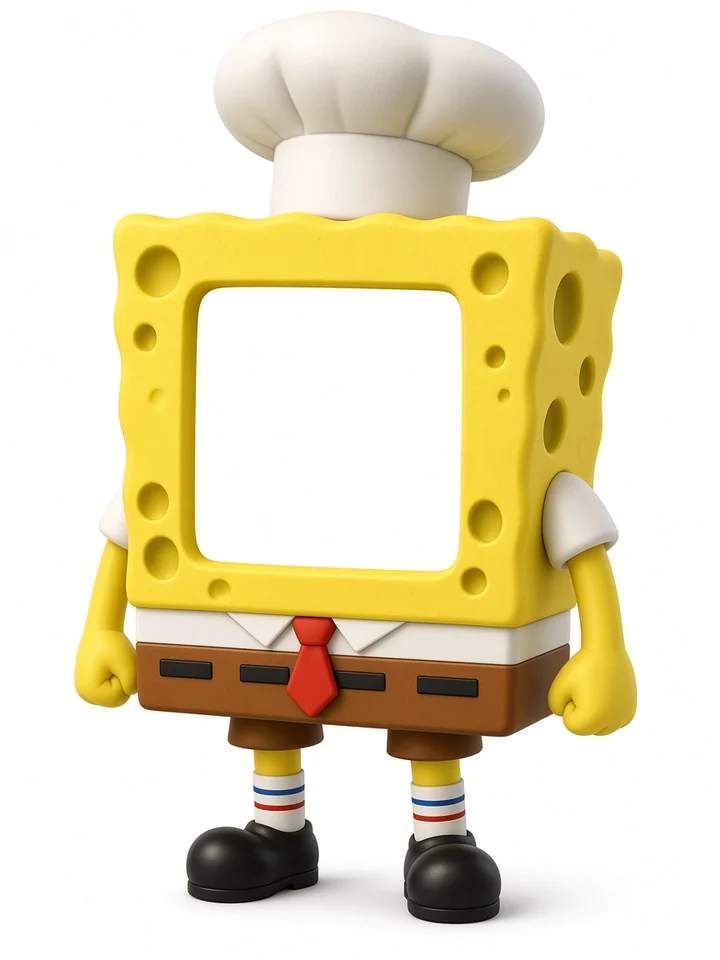
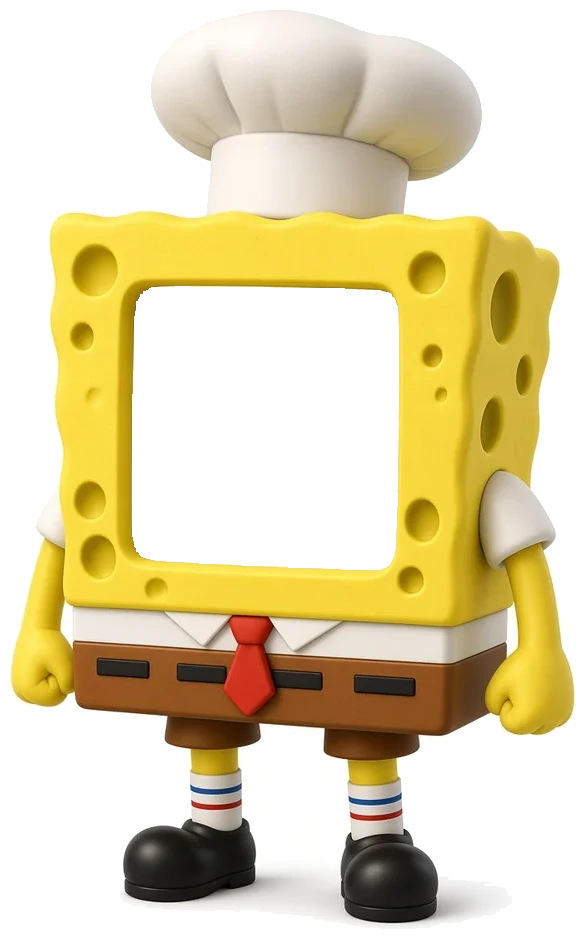
Cut transparent visors for the new shop outfits.
Punch white backgrounds and face holes, add matching masks, give
new players 20 shells so they can try a suit immediately.

diff --git a/components/shop-view.tsx b/components/shop-view.tsx
@@ -22,12 +22,14 @@ export function ShopView({
     <div className="screen">
       <TopBar title="服装" right={<span className="text-sm text-foam">贝壳 {user.shells}</span>} onBack={onBack} />
       <div className="relative z-10 flex-1 space-y-3 overflow-y-auto px-4 pb-8 pt-2">
+        <p className="px-1 text-xs text-foam/45">新号送 20 贝壳。打完一局还能再拿，头像会嵌在开口里。</p>
         {OUTFITS.map((outfit) => {
           const owned = outfit.price === 0 || user.owned.includes(outfit.id);
           const wearing = user.outfit === outfit.id;
+          const short = Math.max(0, outfit.price - user.shells);
           return (
             <div key={outfit.id} className="flex items-center gap-3 rounded-3xl bg-black/20 px-3 py-2.5">
-              <div className="flex h-[148px] w-[112px] shrink-0 items-end justify-center overflow-hidden rounded-2xl bg-white/95">
+              <div className="flex h-[148px] w-[112px] shrink-0 items-end justify-center overflow-hidden rounded-2xl bg-[#d7ece8]">
                 <Figure name={user.name} src={user.avatarUrl} outfitId={outfit.id} size={148} />
               </div>
               <div className="min-w-0 flex-1">
@@ -40,6 +42,8 @@ export function ShopView({
                 <button type="button" onClick={() => onWear(outfit.id)} className="btn btn-quiet px-4 py-2 text-sm">
                   穿上
                 </button>
+              ) : short ? (
+                <span className="text-sm text-foam/40">还差 {short}</span>
               ) : (
                 <button type="button" onClick={() => onBuy(outfit.id)} className="btn btn-primary px-4 py-2 text-sm">
                   兑换

diff --git a/lib/wardrobe.ts b/lib/wardrobe.ts
@@ -56,40 +56,45 @@ export const OUTFITS: Outfit[] = [
     name: "骑士",
     price: 18,
     src: withBase("/outfits/3.webp"),
-    aspect: 720 / 960,
-    hole: { cx: 50, cy: 12, rw: 7, rh: 8 },
+    mask: withBase("/outfits/3-mask.webp"),
+    aspect: 417 / 946,
+    hole: { cx: 50, cy: 13.32, rw: 11.39, rh: 4.12 },
   },
   {
     id: "mecha",
     name: "机甲",
     price: 20,
     src: withBase("/outfits/5.webp"),
-    aspect: 720 / 960,
-    hole: { cx: 50, cy: 14, rw: 10, rh: 11 },
+    mask: withBase("/outfits/5-mask.webp"),
+    aspect: 516 / 953,
+    hole: { cx: 49.9, cy: 11.8, rw: 13.28, rh: 6.87 },
   },
   {
     id: "bee",
     name: "蜜蜂",
     price: 14,
     src: withBase("/outfits/6.webp"),
-    aspect: 720 / 960,
-    hole: { cx: 50, cy: 24, rw: 16, rh: 14 },
+    mask: withBase("/outfits/6-mask.webp"),
+    aspect: 663 / 955,
+    hole: { cx: 38.91, cy: 28.53, rw: 18.7, rh: 11.47 },
   },
   {
     id: "starfish",
     name: "粉海星",
     price: 16,
     src: withBase("/outfits/7.webp"),
-    aspect: 720 / 960,
-    hole: { cx: 50, cy: 32, rw: 10, rh: 12 },
+    mask: withBase("/outfits/7-mask.webp"),
+    aspect: 701 / 911,
+    hole: { cx: 47.15, cy: 30.68, rw: 12.05, rh: 11.91 },
   },
   {
     id: "sponge",
     name: "海绵厨师",
     price: 16,
     src: withBase("/outfits/8.webp"),
-    aspect: 720 / 960,
-    hole: { cx: 50, cy: 34, rw: 16, rh: 16 },
+    mask: withBase("/outfits/8-mask.webp"),
+    aspect: 585 / 939,
+    hole: { cx: 45.3, cy: 45.53, rw: 22.74, rh: 15.07 },
   },
 ];
 

diff --git a/lib/local-user.test.ts b/lib/local-user.test.ts
@@ -92,18 +92,19 @@ describe("local user", () => {
   it("keeps nickname, shells, clothes, and history on this browser", async () => {
     const user = await registerLocal("甲甲", "pass");
     assert.equal(user.outfit, "astronaut");
+    assert.equal(user.shells, 20);
     assert.equal(loadCurrentUser()?.id, user.id);
     const paid = syncFinishedGame(finishedRoom(user.id));
-    assert.equal(paid?.shells, 22);
+    assert.equal(paid?.shells, 42);
     assert.equal(listLocalHistory().length, 1);
-    assert.equal(syncFinishedGame(finishedRoom(user.id))?.shells, 22);
+    assert.equal(syncFinishedGame(finishedRoom(user.id))?.shells, 42);
     const bought = buyOutfitLocal("diver");
     assert.equal(bought.outfit, "diver");
-    assert.equal(bought.shells, 6);
+    assert.equal(bought.shells, 26);
     logoutLocal();
     assert.equal(loadCurrentUser(), null);
     const again = await loginLocal("甲甲", "pass");
-    assert.equal(again.shells, 6);
+    assert.equal(again.shells, 26);
     assert.equal(again.outfit, "diver");
   });
 });

diff --git a/components/rules-view.tsx b/components/rules-view.tsx
@@ -7,7 +7,7 @@ const RULES = [
   ["轮数", "创建房间时选 20、50 或 100 轮，也可以提前结束。"],
   ["计分", "正经成语 +1 文化。四个字但不是成语、接错、重复、空发、跳过 +1 丈育；看提示 +2 丈育。"],
   ["贝壳", "打完一局发：底 6 + 文化×3。最有文化和最丈育分开评，再分别加 10 和 4。一局最多 50。"],
-  ["服装", "默认宇航服。巴斯光年、松鼠、骑士、机甲、蜜蜂、粉海星、海绵厨师用贝壳换，头像嵌在开口里。"],
+  ["服装", "默认宇航服。新号送 20 贝壳。别的衣服用贝壳换，头像嵌在开口里。"],
   ["结算", "文化最高是最有文化。丈育最高是最丈育，且不能跟最有文化是同一个人。"],
 ];
 

diff --git a/lib/wardrobe.test.ts b/lib/wardrobe.test.ts
@@ -58,10 +58,10 @@ describe("outfits", () => {
   });
 
   it("clips each face to that outfit's helmet opening", () => {
-    for (const id of ["astronaut", "ranger", "diver"] as const) {
+    for (const id of ["astronaut", "ranger", "diver", "knight", "mecha", "bee", "starfish", "sponge"] as const) {
       const outfit = getOutfit(id);
       assert.ok(outfit.mask, `${id} needs a visor mask`);
-      assert.match(outfit.mask ?? "", new RegExp(`${id}-mask\\.webp$`));
+      assert.match(outfit.mask ?? "", /mask\.webp$/);
       assert.ok(outfit.hole);
     }
     assert.equal(getOutfit("copper").id, "astronaut");

diff --git a/components/figure.tsx b/components/figure.tsx
@@ -1,3 +1,4 @@
+import { colorFor } from "./avatar";
 import { getOutfit } from "@/lib/wardrobe";
 
 function Face({
@@ -28,8 +29,8 @@ function Face({
   }
   return (
     <span
-      className="absolute flex items-center justify-center text-[11px] font-semibold text-[#f4f7f2]"
-      style={style}
+      className="absolute flex items-center justify-center font-semibold text-ink"
+      style={{ ...style, background: colorFor(name || "座") }}
     >
       {name.slice(0, 1)}
     </span>

diff --git a/lib/local-user.ts b/lib/local-user.ts
@@ -119,7 +119,7 @@ export async function registerLocal(name: string, password: string, avatarUrl?: 
     name: clean,
     pin: await hashPin(password),
     avatarUrl: avatarUrl || undefined,
-    shells: 0,
+    shells: 20,
     owned: normalizeOwned(["astronaut"]),
     outfit: "astronaut",
     paid: [],

diff --git a/next.config.ts b/next.config.ts
@@ -10,7 +10,7 @@ const nextConfig: NextConfig = {
   assetPrefix: process.env.VERCEL_ENV === "production" ? dest + basePath : undefined,
   env: {
     NEXT_PUBLIC_BASE_PATH: basePath,
-    NEXT_PUBLIC_BUILD: "20260922-shop5",
+    NEXT_PUBLIC_BUILD: "20260922-cutouts",
   },
 };
 
